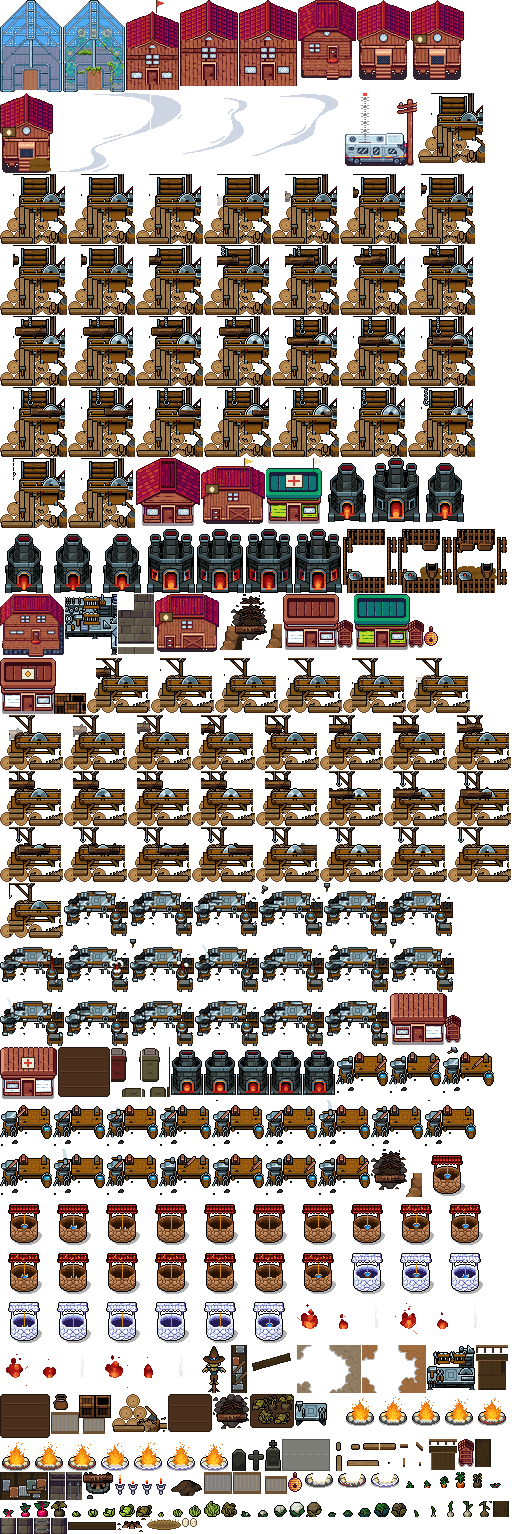
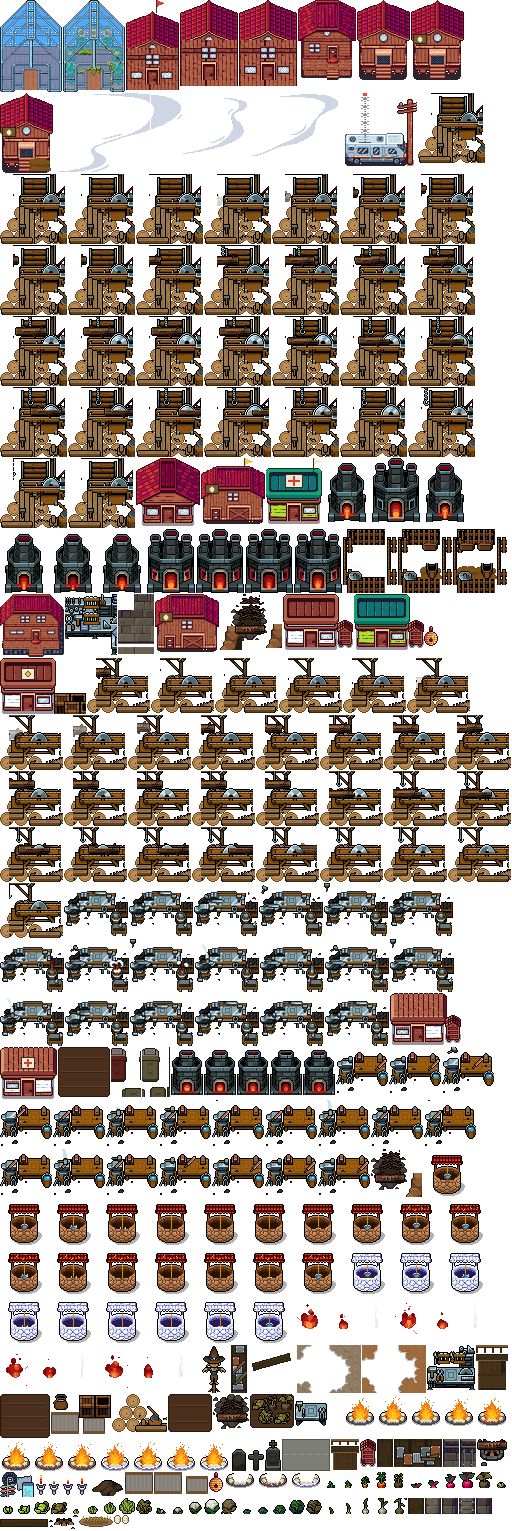
Build 2026-11-07 from 461f334

diff --git a/index.html b/index.html
@@ -47,7 +47,7 @@ input.rename{font:700 20px var(--body);padding:6px 10px;border:3px solid #7a4a24
 .asp{display:inline-block;width:40px;height:40px;background-image:url(animals.png?v=2616df3f);background-repeat:no-repeat;vertical-align:middle;flex:0 0 auto}
 .sp{display:inline-block;width:32px;height:32px;background-image:url(sheet.png?v=ec2cbd7e);background-repeat:no-repeat;vertical-align:middle}
 .psp{display:inline-block;position:relative;vertical-align:middle;image-rendering:pixelated}.psp i{position:absolute;left:0;top:0;width:100%;height:100%;background-image:url(people.png?v=e573a07a);background-repeat:no-repeat}
-.bsp{display:inline-block;background-image:url(bld.png?v=bb1d8808);background-repeat:no-repeat;vertical-align:middle;image-rendering:pixelated}
+.bsp{display:inline-block;background-image:url(bld.png?v=d25d940f);background-repeat:no-repeat;vertical-align:middle;image-rendering:pixelated}
 /* stage */
 .main{display:grid;grid-template-columns:minmax(0,1fr) auto;gap:10px;min-height:0}
 .stage{position:relative;min-width:0;min-height:0;display:flex;align-items:center;justify-content:center;background:#0b100a;border:4px solid #2a1a0e;box-shadow:0 0 0 2px #0a0f0a;overflow:hidden}
@@ -302,7 +302,7 @@ function espr(type,anim,dir,frame,x,y,flip,scale=1,alpha=1){const st=ENEMIES.set
 const eicon=(type,mul=1)=>{const st=ENEMIES.sets[type];const fi=st.anims.idle.side[0];const f=ENEMIES.frames[fi];const s=(type==='bat'?0.55:0.85)*mul;return `<span class="psp" style="width:${R_(f[2]*s)}px;height:${R_(f[3]*s)}px"><i style="background-image:url(enemies.png?v=046c2797);background-position:-${f[0]*s}px -${f[1]*s}px;background-size:${(enImg.naturalWidth||1024)*s}px auto"></i></span>`;};
 const PORTRAITS={"size":80,"pics":{"smith-neutral":[0,0],"smith-happy":[80,0],"smith-calm":[160,0],"smith-angry":[240,0],"smith-sad":[320,0],"smith-puzzled":[400,0],"hippo-neutral":[0,80],"hippo-happy":[80,80],"hippo-calm":[160,80],"hippo-angry":[240,80],"hippo-sad":[320,80],"hippo-puzzled":[400,80],"oldman-neutral":[0,160],"oldman-happy":[80,160],"oldman-calm":[160,160],"oldman-angry":[240,160],"oldman-sad":[320,160],"oldman-puzzled":[400,160],"oldwoman-neutral":[0,240],"oldwoman-happy":[80,240],"oldwoman-calm":[160,240],"oldwoman-angry":[240,240],"oldwoman-sad":[320,240],"oldwoman-puzzled":[400,240],"woman-neutral":[0,320],"woman-happy":[80,320],"woman-calm":[160,320],"woman-angry":[240,320],"woman-sad":[320,320],"woman-puzzled":[400,320]}};   // The Game Smith portrait busts, 80px: smith, hippo, oldman, oldwoman, woman x neutral, happy, calm, angry, sad, puzzled
 const portrait=(who,mood='neutral')=>{const k=PORTRAITS.pics[who+'-'+mood]||PORTRAITS.pics[who+'-neutral'];if(!k)return '';return `<span class="por" style="background-position:-${k[0]}px -${k[1]}px"></span>`;};
-const BLD={"greenhouse_1":{"x":0,"y":0,"w":62,"h":92},"greenhouse_2":{"x":63,"y":0,"w":62,"h":92},"guardpost_3":{"x":126,"y":0,"w":53,"h":90},"guardpost_1":{"x":180,"y":0,"w":58,"h":86},"guardpost_2":{"x":239,"y":0,"w":58,"h":86},"shelter_2":{"x":298,"y":0,"w":58,"h":80},"hatchery_1":{"x":357,"y":0,"w":53,"h":80},"hatchery_2":{"x":411,"y":0,"w":53,"h":80},"hatchery_3":{"x":0,"y":93,"w":53,"h":80},"wind_0":{"x":54,"y":93,"w":96,"h":80},"wind_1":{"x":151,"y":93,"w":96,"h":80},"wind_2":{"x":248,"y":93,"w":96,"h":80},"relay_1":{"x":345,"y":93,"w":72,"h":73},"lumber_3":{"x":418,"y":93,"w":67,"h":70},"lumber_3_a0":{"x":0,"y":174,"w":67,"h":70},"lumber_3_a1":{"x":68,"y":174,"w":67,"h":70},"lumber_3_a2":{"x":136,"y":174,"w":67,"h":70},"lumber_3_a3":{"x":204,"y":174,"w":67,"h":70},"lumber_3_a4":{"x":272,"y":174,"w":67,"h":70},"lumber_3_a5":{"x":340,"y":174,"w":67,"h":70},"lumber_3_a6":{"x":408,"y":174,"w":67,"h":70},"lumber_3_a7":{"x":0,"y":245,"w":67,"h":70},"lumber_3_a8":{"x":68,"y":245,"w":67,"h":70},"lumber_3_a9":{"x":136,"y":245,"w":67,"h":70},"lumber_3_a10":{"x":204,"y":245,"w":67,"h":70},"lumber_3_a11":{"x":272,"y":245,"w":67,"h":70},"lumber_3_a12":{"x":340,"y":245,"w":67,"h":70},"lumber_3_a13":{"x":408,"y":245,"w":67,"h":70},"lumber_3_a14":{"x":0,"y":316,"w":67,"h":70},"lumber_3_a15":{"x":68,"y":316,"w":67,"h":70},"lumber_3_a16":{"x":136,"y":316,"w":67,"h":70},"lumber_3_a17":{"x":204,"y":316,"w":67,"h":70},"lumber_3_a18":{"x":272,"y":316,"w":67,"h":70},"lumber_3_a19":{"x":340,"y":316,"w":67,"h":70},"lumber_3_a20":{"x":408,"y":316,"w":67,"h":70},"lumber_3_a21":{"x":0,"y":387,"w":67,"h":70},"lumber_3_a22":{"x":68,"y":387,"w":67,"h":70},"lumber_3_a23":{"x":136,"y":387,"w":67,"h":70},"lumber_3_a24":{"x":204,"y":387,"w":67,"h":70},"lumber_3_a25":{"x":272,"y":387,"w":67,"h":70},"lumber_3_a26":{"x":340,"y":387,"w":67,"h":70},"lumber_3_a27":{"x":408,"y":387,"w":67,"h":70},"lumber_3_a28":{"x":0,"y":458,"w":67,"h":70},"lumber_3_a29":{"x":68,"y":458,"w":67,"h":70},"shelter_1":{"x":136,"y":458,"w":64,"h":68},"hatchery_5":{"x":201,"y":458,"w":64,"h":66},"infirmary_2":{"x":266,"y":458,"w":56,"h":66},"scrapyard_2":{"x":323,"y":458,"w":48,"h":64},"scrapyard_3":{"x":372,"y":458,"w":48,"h":64},"scrapyard_2_a0":{"x":421,"y":458,"w":48,"h":64},"scrapyard_2_a1":{"x":0,"y":529,"w":48,"h":64},"scrapyard_2_a2":{"x":49,"y":529,"w":48,"h":64},"scrapyard_2_a3":{"x":98,"y":529,"w":48,"h":64},"scrapyard_3_a0":{"x":147,"y":529,"w":48,"h":64},"scrapyard_3_a1":{"x":196,"y":529,"w":48,"h":64},"scrapyard_3_a2":{"x":245,"y":529,"w":48,"h":64},"scrapyard_3_a3":{"x":294,"y":529,"w":48,"h":64},"pen_1":{"x":343,"y":529,"w":54,"h":64},"pen_2":{"x":398,"y":529,"w":54,"h":64},"pen_3":{"x":453,"y":529,"w":54,"h":64},"shelter_3":{"x":0,"y":594,"w":64,"h":63},"lab_3":{"x":65,"y":594,"w":52,"h":61},"bastion_3":{"x":118,"y":594,"w":36,"h":60},"hatchery_4":{"x":155,"y":594,"w":64,"h":58},"signal_5":{"x":220,"y":594,"w":62,"h":56},"bughut_1":{"x":283,"y":594,"w":70,"h":56},"bughut_3":{"x":354,"y":594,"w":84,"h":56},"tradepost_1":{"x":0,"y":658,"w":86,"h":56},"lumber_2":{"x":87,"y":658,"w":63,"h":55},"lumber_2_a0":{"x":151,"y":658,"w":63,"h":55},"lumber_2_a1":{"x":215,"y":658,"w":63,"h":55},"lumber_2_a2":{"x":279,"y":658,"w":63,"h":55},"lumber_2_a3":{"x":343,"y":658,"w":63,"h":55},"lumber_2_a4":{"x":407,"y":658,"w":63,"h":55},"lumber_2_a5":{"x":0,"y":715,"w":63,"h":55},"lumber_2_a6":{"x":64,"y":715,"w":63,"h":55},"lumber_2_a7":{"x":128,"y":715,"w":63,"h":55},"lumber_2_a8":{"x":192,"y":715,"w":63,"h":55},"lumber_2_a9":{"x":256,"y":715,"w":63,"h":55},"lumber_2_a10":{"x":320,"y":715,"w":63,"h":55},"lumber_2_a11":{"x":384,"y":715,"w":63,"h":55},"lumber_2_a12":{"x":448,"y":715,"w":63,"h":55},"lumber_2_a13":{"x":0,"y":771,"w":63,"h":55},"lumber_2_a14":{"x":64,"y":771,"w":63,"h":55},"lumber_2_a15":{"x":128,"y":771,"w":63,"h":55},"lumber_2_a16":{"x":192,"y":771,"w":63,"h":55},"lumber_2_a17":{"x":256,"y":771,"w":63,"h":55},"lumber_2_a18":{"x":320,"y":771,"w":63,"h":55},"lumber_2_a19":{"x":384,"y":771,"w":63,"h":55},"lumber_2_a20":{"x":448,"y":771,"w":63,"h":55},"lumber_2_a21":{"x":0,"y":827,"w":63,"h":55},"lumber_2_a22":{"x":64,"y":827,"w":63,"h":55},"lumber_2_a23":{"x":128,"y":827,"w":63,"h":55},"lumber_2_a24":{"x":192,"y":827,"w":63,"h":55},"lumber_2_a25":{"x":256,"y":827,"w":63,"h":55},"lumber_2_a26":{"x":320,"y":827,"w":63,"h":55},"lumber_2_a27":{"x":384,"y":827,"w":63,"h":55},"lumber_2_a28":{"x":448,"y":827,"w":63,"h":55},"lumber_2_a29":{"x":0,"y":883,"w":63,"h":55},"workshop_2":{"x":64,"y":883,"w":64,"h":53},"workshop_2_a0":{"x":129,"y":883,"w":64,"h":53},"workshop_2_a1":{"x":194,"y":883,"w":64,"h":53},"workshop_2_a2":{"x":259,"y":883,"w":64,"h":53},"workshop_2_a3":{"x":324,"y":883,"w":64,"h":53},"workshop_2_a4":{"x":389,"y":883,"w":64,"h":53},"workshop_2_a5":{"x":0,"y":939,"w":64,"h":53},"workshop_2_a6":{"x":65,"y":939,"w":64,"h":53},"workshop_2_a7":{"x":130,"y":939,"w":64,"h":53},"workshop_2_a8":{"x":195,"y":939,"w":64,"h":53},"workshop_2_a9":{"x":260,"y":939,"w":64,"h":53},"workshop_2_a10":{"x":325,"y":939,"w":64,"h":53},"workshop_2_a11":{"x":390,"y":939,"w":64,"h":53},"workshop_2_a12":{"x":0,"y":993,"w":64,"h":53},"workshop_2_a13":{"x":65,"y":993,"w":64,"h":53},"workshop_2_a14":{"x":130,"y":993,"w":64,"h":53},"workshop_2_a15":{"x":195,"y":993,"w":64,"h":53},"workshop_2_a16":{"x":260,"y":993,"w":64,"h":53},"workshop_2_a17":{"x":325,"y":993,"w":64,"h":53},"bughut_2":{"x":390,"y":993,"w":71,"h":52},"infirmary_1":{"x":0,"y":1047,"w":57,"h":52},"garden_3":{"x":58,"y":1047,"w":52,"h":50},"bedroll_a":{"x":111,"y":1047,"w":30,"h":50},"bedroll_b":{"x":142,"y":1047,"w":28,"h":50},"scrapyard_1":{"x":171,"y":1047,"w":32,"h":48},"scrapyard_1_a0":{"x":204,"y":1047,"w":32,"h":48},"scrapyard_1_a1":{"x":237,"y":1047,"w":32,"h":48},"scrapyard_1_a2":{"x":270,"y":1047,"w":32,"h":48},"scrapyard_1_a3":{"x":303,"y":1047,"w":32,"h":48},"workshop_1":{"x":336,"y":1047,"w":52,"h":48},"workshop_1_a0":{"x":389,"y":1047,"w":52,"h":48},"workshop_1_a1":{"x":442,"y":1047,"w":52,"h":48},"workshop_1_a2":{"x":0,"y":1100,"w":52,"h":48},"workshop_1_a3":{"x":53,"y":1100,"w":52,"h":48},"workshop_1_a4":{"x":106,"y":1100,"w":52,"h":48},"workshop_1_a5":{"x":159,"y":1100,"w":52,"h":48},"workshop_1_a6":{"x":212,"y":1100,"w":52,"h":48},"workshop_1_a7":{"x":265,"y":1100,"w":52,"h":48},"workshop_1_a8":{"x":318,"y":1100,"w":52,"h":48},"workshop_1_a9":{"x":371,"y":1100,"w":52,"h":48},"workshop_1_a10":{"x":424,"y":1100,"w":52,"h":48},"workshop_1_a11":{"x":0,"y":1149,"w":52,"h":48},"workshop_1_a12":{"x":53,"y":1149,"w":52,"h":48},"workshop_1_a13":{"x":106,"y":1149,"w":52,"h":48},"workshop_1_a14":{"x":159,"y":1149,"w":52,"h":48},"workshop_1_a15":{"x":212,"y":1149,"w":52,"h":48},"workshop_1_a16":{"x":265,"y":1149,"w":52,"h":48},"workshop_1_a17":{"x":318,"y":1149,"w":52,"h":48},"signal_4":{"x":371,"y":1149,"w":51,"h":48},"well_0_0":{"x":423,"y":1149,"w":48,"h":48},"well_0_1":{"x":0,"y":1198,"w":48,"h":48},"well_0_2":{"x":49,"y":1198,"w":48,"h":48},"well_0_3":{"x":98,"y":1198,"w":48,"h":48},"well_0_4":{"x":147,"y":1198,"w":48,"h":48},"well_0_5":{"x":196,"y":1198,"w":48,"h":48},"well_0_6":{"x":245,"y":1198,"w":48,"h":48},"well_0_7":{"x":294,"y":1198,"w":48,"h":48},"well_0_8":{"x":343,"y":1198,"w":48,"h":48},"well_2_0":{"x":392,"y":1198,"w":48,"h":48},"well_2_1":{"x":441,"y":1198,"w":48,"h":48},"well_2_2":{"x":0,"y":1247,"w":48,"h":48},"well_2_3":{"x":49,"y":1247,"w":48,"h":48},"well_2_4":{"x":98,"y":1247,"w":48,"h":48},"well_2_5":{"x":147,"y":1247,"w":48,"h":48},"well_2_6":{"x":196,"y":1247,"w":48,"h":48},"well_2_7":{"x":245,"y":1247,"w":48,"h":48},"well_2_8":{"x":294,"y":1247,"w":48,"h":48},"well_3_0":{"x":343,"y":1247,"w":48,"h":48},"well_3_1":{"x":392,"y":1247,"w":48,"h":48},"well_3_2":{"x":441,"y":1247,"w":48,"h":48},"well_3_3":{"x":0,"y":1296,"w":48,"h":48},"well_3_4":{"x":49,"y":1296,"w":48,"h":48},"well_3_5":{"x":98,"y":1296,"w":48,"h":48},"well_3_6":{"x":147,"y":1296,"w":48,"h":48},"well_3_7":{"x":196,"y":1296,"w":48,"h":48},"well_3_8":{"x":245,"y":1296,"w":48,"h":48},"fire_0":{"x":294,"y":1296,"w":32,"h":48},"fire2_0":{"x":327,"y":1296,"w":32,"h":48},"smoke_0":{"x":360,"y":1296,"w":32,"h":48},"fire_1":{"x":393,"y":1296,"w":32,"h":48},"fire2_1":{"x":426,"y":1296,"w":32,"h":48},"smoke_1":{"x":459,"y":1296,"w":32,"h":48},"fire_2":{"x":0,"y":1345,"w":32,"h":48},"fire2_2":{"x":33,"y":1345,"w":32,"h":48},"smoke_2":{"x":66,"y":1345,"w":32,"h":48},"fire_3":{"x":99,"y":1345,"w":32,"h":48},"fire2_3":{"x":132,"y":1345,"w":32,"h":48},"smoke_3":{"x":165,"y":1345,"w":32,"h":48},"scarecrow":{"x":198,"y":1345,"w":32,"h":48},"wallv_2":{"x":231,"y":1345,"w":16,"h":48},"plank_b":{"x":248,"y":1345,"w":48,"h":48},"pad_stone":{"x":297,"y":1345,"w":64,"h":48},"pad_dirt":{"x":362,"y":1345,"w":64,"h":48},"lab_2":{"x":427,"y":1345,"w":48,"h":45},"bastion_2":{"x":476,"y":1345,"w":32,"h":45},"garden_2":{"x":0,"y":1394,"w":50,"h":44},"traps_3":{"x":51,"y":1394,"w":60,"h":40},"lumber_1":{"x":112,"y":1394,"w":55,"h":38},"garden_1":{"x":168,"y":1394,"w":44,"h":38},"signal_3":{"x":213,"y":1394,"w":36,"h":35},"garden_icon":{"x":250,"y":1394,"w":44,"h":34},"lab_1":{"x":295,"y":1394,"w":48,"h":32},"gfire_0_0":{"x":344,"y":1394,"w":32,"h":32},"gfire_0_1":{"x":377,"y":1394,"w":32,"h":32},"gfire_0_2":{"x":410,"y":1394,"w":32,"h":32},"gfire_0_3":{"x":443,"y":1394,"w":32,"h":32},"gfire_2_0":{"x":476,"y":1394,"w":32,"h":32},"gfire_2_1":{"x":0,"y":1439,"w":32,"h":32},"gfire_2_2":{"x":33,"y":1439,"w":32,"h":32},"gfire_2_3":{"x":66,"y":1439,"w":32,"h":32},"gfire_3_0":{"x":99,"y":1439,"w":32,"h":32},"gfire_3_1":{"x":132,"y":1439,"w":32,"h":32},"gfire_3_2":{"x":165,"y":1439,"w":32,"h":32},"gfire_3_3":{"x":198,"y":1439,"w":32,"h":32},"grave_a":{"x":231,"y":1439,"w":16,"h":32},"grave_b":{"x":248,"y":1439,"w":16,"h":32},"grave_c":{"x":265,"y":1439,"w":16,"h":32},"road_1":{"x":282,"y":1439,"w":48,"h":32},"logs_pile":{"x":331,"y":1439,"w":48,"h":32},"ore_pile":{"x":380,"y":1439,"w":48,"h":32},"bastion_1":{"x":429,"y":1439,"w":28,"h":31},"beehive":{"x":458,"y":1439,"w":16,"h":28},"wallh_1":{"x":475,"y":1439,"w":16,"h":28},"wallh_2":{"x":0,"y":1472,"w":48,"h":28},"wallh_3":{"x":49,"y":1472,"w":16,"h":28},"wallh_4":{"x":66,"y":1472,"w":16,"h":28},"signal_2":{"x":83,"y":1472,"w":30,"h":27},"torch_0":{"x":114,"y":1472,"w":12,"h":24},"torch_1":{"x":127,"y":1472,"w":12,"h":24},"torch_2":{"x":140,"y":1472,"w":14,"h":24},"torch_3":{"x":155,"y":1472,"w":15,"h":24},"mound":{"x":171,"y":1472,"w":32,"h":24},"traps_1":{"x":204,"y":1472,"w":28,"h":22},"traps_2":{"x":233,"y":1472,"w":54,"h":22},"skep":{"x":288,"y":1472,"w":14,"h":20},"gring_0":{"x":303,"y":1472,"w":32,"h":16},"gring_2":{"x":336,"y":1472,"w":32,"h":16},"gring_3":{"x":369,"y":1472,"w":32,"h":16},"crop_carrot_0":{"x":402,"y":1472,"w":16,"h":16},"crop_carrot_1":{"x":419,"y":1472,"w":16,"h":16},"crop_carrot_2":{"x":436,"y":1472,"w":16,"h":16},"crop_carrot_3":{"x":453,"y":1472,"w":16,"h":16},"crop_carrot_4":{"x":470,"y":1472,"w":16,"h":16},"crop_beet_0":{"x":487,"y":1472,"w":16,"h":16},"crop_beet_1":{"x":0,"y":1501,"w":16,"h":16},"crop_beet_2":{"x":17,"y":1501,"w":16,"h":16},"crop_beet_3":{"x":34,"y":1501,"w":16,"h":16},"crop_beet_4":{"x":51,"y":1501,"w":16,"h":16},"crop_cabbage_0":{"x":68,"y":1501,"w":16,"h":16},"crop_cabbage_1":{"x":85,"y":1501,"w":16,"h":16},"crop_cabbage_2":{"x":102,"y":1501,"w":16,"h":16},"crop_cabbage_3":{"x":119,"y":1501,"w":16,"h":16},"crop_cabbage_4":{"x":136,"y":1501,"w":16,"h":16},"crop_lettuce_0":{"x":153,"y":1501,"w":16,"h":16},"crop_lettuce_1":{"x":170,"y":1501,"w":16,"h":16},"crop_lettuce_2":{"x":187,"y":1501,"w":16,"h":16},"crop_lettuce_3":{"x":204,"y":1501,"w":16,"h":16},"crop_lettuce_4":{"x":221,"y":1501,"w":16,"h":16},"crop_cauliflower_0":{"x":238,"y":1501,"w":16,"h":16},"crop_cauliflower_1":{"x":255,"y":1501,"w":16,"h":16},"crop_cauliflower_2":{"x":272,"y":1501,"w":16,"h":16},"crop_cauliflower_3":{"x":289,"y":1501,"w":16,"h":16},"crop_cauliflower_4":{"x":306,"y":1501,"w":16,"h":16},"crop_broccoli_0":{"x":323,"y":1501,"w":16,"h":16},"crop_broccoli_1":{"x":340,"y":1501,"w":16,"h":16},"crop_broccoli_2":{"x":357,"y":1501,"w":16,"h":16},"crop_broccoli_3":{"x":374,"y":1501,"w":16,"h":16},"crop_broccoli_4":{"x":391,"y":1501,"w":16,"h":16},"crop_garlic_0":{"x":408,"y":1501,"w":16,"h":16},"crop_garlic_1":{"x":425,"y":1501,"w":16,"h":16},"crop_garlic_2":{"x":442,"y":1501,"w":16,"h":16},"crop_garlic_3":{"x":459,"y":1501,"w":16,"h":16},"crop_garlic_4":{"x":476,"y":1501,"w":16,"h":16},"wallv_1":{"x":493,"y":1501,"w":16,"h":16},"wallv_3":{"x":0,"y":1518,"w":16,"h":16},"wallcap_3":{"x":17,"y":1518,"w":16,"h":16},"wallv_4":{"x":34,"y":1518,"w":16,"h":16},"wallcap_4":{"x":51,"y":1518,"w":16,"h":16},"plank_a":{"x":68,"y":1518,"w":48,"h":16},"signal_1":{"x":117,"y":1518,"w":29,"h":14},"nest":{"x":147,"y":1518,"w":34,"h":12},"egg_a":{"x":182,"y":1518,"w":7,"h":9},"egg_b":{"x":190,"y":1518,"w":7,"h":9},"_anim":{"lumber_2":30,"lumber_3":30,"scrapyard_1":4,"scrapyard_2":4,"scrapyard_3":4,"workshop_1":18,"workshop_2":18}};const bldImg=new Image();let bldReady=false;bldImg.src='bld.png?v=bb1d8808';bldImg.onload=()=>{bldReady=true;};
+const BLD={"greenhouse_1":{"x":0,"y":0,"w":62,"h":92},"greenhouse_2":{"x":63,"y":0,"w":62,"h":92},"guardpost_3":{"x":126,"y":0,"w":53,"h":90},"guardpost_1":{"x":180,"y":0,"w":58,"h":86},"guardpost_2":{"x":239,"y":0,"w":58,"h":86},"shelter_2":{"x":298,"y":0,"w":58,"h":80},"hatchery_1":{"x":357,"y":0,"w":53,"h":80},"hatchery_2":{"x":411,"y":0,"w":53,"h":80},"hatchery_3":{"x":0,"y":93,"w":53,"h":80},"wind_0":{"x":54,"y":93,"w":96,"h":80},"wind_1":{"x":151,"y":93,"w":96,"h":80},"wind_2":{"x":248,"y":93,"w":96,"h":80},"relay_1":{"x":345,"y":93,"w":72,"h":73},"lumber_3":{"x":418,"y":93,"w":67,"h":70},"lumber_3_a0":{"x":0,"y":174,"w":67,"h":70},"lumber_3_a1":{"x":68,"y":174,"w":67,"h":70},"lumber_3_a2":{"x":136,"y":174,"w":67,"h":70},"lumber_3_a3":{"x":204,"y":174,"w":67,"h":70},"lumber_3_a4":{"x":272,"y":174,"w":67,"h":70},"lumber_3_a5":{"x":340,"y":174,"w":67,"h":70},"lumber_3_a6":{"x":408,"y":174,"w":67,"h":70},"lumber_3_a7":{"x":0,"y":245,"w":67,"h":70},"lumber_3_a8":{"x":68,"y":245,"w":67,"h":70},"lumber_3_a9":{"x":136,"y":245,"w":67,"h":70},"lumber_3_a10":{"x":204,"y":245,"w":67,"h":70},"lumber_3_a11":{"x":272,"y":245,"w":67,"h":70},"lumber_3_a12":{"x":340,"y":245,"w":67,"h":70},"lumber_3_a13":{"x":408,"y":245,"w":67,"h":70},"lumber_3_a14":{"x":0,"y":316,"w":67,"h":70},"lumber_3_a15":{"x":68,"y":316,"w":67,"h":70},"lumber_3_a16":{"x":136,"y":316,"w":67,"h":70},"lumber_3_a17":{"x":204,"y":316,"w":67,"h":70},"lumber_3_a18":{"x":272,"y":316,"w":67,"h":70},"lumber_3_a19":{"x":340,"y":316,"w":67,"h":70},"lumber_3_a20":{"x":408,"y":316,"w":67,"h":70},"lumber_3_a21":{"x":0,"y":387,"w":67,"h":70},"lumber_3_a22":{"x":68,"y":387,"w":67,"h":70},"lumber_3_a23":{"x":136,"y":387,"w":67,"h":70},"lumber_3_a24":{"x":204,"y":387,"w":67,"h":70},"lumber_3_a25":{"x":272,"y":387,"w":67,"h":70},"lumber_3_a26":{"x":340,"y":387,"w":67,"h":70},"lumber_3_a27":{"x":408,"y":387,"w":67,"h":70},"lumber_3_a28":{"x":0,"y":458,"w":67,"h":70},"lumber_3_a29":{"x":68,"y":458,"w":67,"h":70},"shelter_1":{"x":136,"y":458,"w":64,"h":68},"hatchery_5":{"x":201,"y":458,"w":64,"h":66},"infirmary_2":{"x":266,"y":458,"w":56,"h":66},"scrapyard_2":{"x":323,"y":458,"w":48,"h":64},"scrapyard_3":{"x":372,"y":458,"w":48,"h":64},"scrapyard_2_a0":{"x":421,"y":458,"w":48,"h":64},"scrapyard_2_a1":{"x":0,"y":529,"w":48,"h":64},"scrapyard_2_a2":{"x":49,"y":529,"w":48,"h":64},"scrapyard_2_a3":{"x":98,"y":529,"w":48,"h":64},"scrapyard_3_a0":{"x":147,"y":529,"w":48,"h":64},"scrapyard_3_a1":{"x":196,"y":529,"w":48,"h":64},"scrapyard_3_a2":{"x":245,"y":529,"w":48,"h":64},"scrapyard_3_a3":{"x":294,"y":529,"w":48,"h":64},"pen_1":{"x":343,"y":529,"w":54,"h":64},"pen_2":{"x":398,"y":529,"w":54,"h":64},"pen_3":{"x":453,"y":529,"w":54,"h":64},"shelter_3":{"x":0,"y":594,"w":64,"h":63},"lab_3":{"x":65,"y":594,"w":52,"h":61},"bastion_3":{"x":118,"y":594,"w":36,"h":60},"hatchery_4":{"x":155,"y":594,"w":64,"h":58},"signal_5":{"x":220,"y":594,"w":62,"h":56},"bughut_1":{"x":283,"y":594,"w":70,"h":56},"bughut_3":{"x":354,"y":594,"w":84,"h":56},"tradepost_1":{"x":0,"y":658,"w":86,"h":56},"lumber_2":{"x":87,"y":658,"w":63,"h":55},"lumber_2_a0":{"x":151,"y":658,"w":63,"h":55},"lumber_2_a1":{"x":215,"y":658,"w":63,"h":55},"lumber_2_a2":{"x":279,"y":658,"w":63,"h":55},"lumber_2_a3":{"x":343,"y":658,"w":63,"h":55},"lumber_2_a4":{"x":407,"y":658,"w":63,"h":55},"lumber_2_a5":{"x":0,"y":715,"w":63,"h":55},"lumber_2_a6":{"x":64,"y":715,"w":63,"h":55},"lumber_2_a7":{"x":128,"y":715,"w":63,"h":55},"lumber_2_a8":{"x":192,"y":715,"w":63,"h":55},"lumber_2_a9":{"x":256,"y":715,"w":63,"h":55},"lumber_2_a10":{"x":320,"y":715,"w":63,"h":55},"lumber_2_a11":{"x":384,"y":715,"w":63,"h":55},"lumber_2_a12":{"x":448,"y":715,"w":63,"h":55},"lumber_2_a13":{"x":0,"y":771,"w":63,"h":55},"lumber_2_a14":{"x":64,"y":771,"w":63,"h":55},"lumber_2_a15":{"x":128,"y":771,"w":63,"h":55},"lumber_2_a16":{"x":192,"y":771,"w":63,"h":55},"lumber_2_a17":{"x":256,"y":771,"w":63,"h":55},"lumber_2_a18":{"x":320,"y":771,"w":63,"h":55},"lumber_2_a19":{"x":384,"y":771,"w":63,"h":55},"lumber_2_a20":{"x":448,"y":771,"w":63,"h":55},"lumber_2_a21":{"x":0,"y":827,"w":63,"h":55},"lumber_2_a22":{"x":64,"y":827,"w":63,"h":55},"lumber_2_a23":{"x":128,"y":827,"w":63,"h":55},"lumber_2_a24":{"x":192,"y":827,"w":63,"h":55},"lumber_2_a25":{"x":256,"y":827,"w":63,"h":55},"lumber_2_a26":{"x":320,"y":827,"w":63,"h":55},"lumber_2_a27":{"x":384,"y":827,"w":63,"h":55},"lumber_2_a28":{"x":448,"y":827,"w":63,"h":55},"lumber_2_a29":{"x":0,"y":883,"w":63,"h":55},"workshop_2":{"x":64,"y":883,"w":64,"h":53},"workshop_2_a0":{"x":129,"y":883,"w":64,"h":53},"workshop_2_a1":{"x":194,"y":883,"w":64,"h":53},"workshop_2_a2":{"x":259,"y":883,"w":64,"h":53},"workshop_2_a3":{"x":324,"y":883,"w":64,"h":53},"workshop_2_a4":{"x":389,"y":883,"w":64,"h":53},"workshop_2_a5":{"x":0,"y":939,"w":64,"h":53},"workshop_2_a6":{"x":65,"y":939,"w":64,"h":53},"workshop_2_a7":{"x":130,"y":939,"w":64,"h":53},"workshop_2_a8":{"x":195,"y":939,"w":64,"h":53},"workshop_2_a9":{"x":260,"y":939,"w":64,"h":53},"workshop_2_a10":{"x":325,"y":939,"w":64,"h":53},"workshop_2_a11":{"x":390,"y":939,"w":64,"h":53},"workshop_2_a12":{"x":0,"y":993,"w":64,"h":53},"workshop_2_a13":{"x":65,"y":993,"w":64,"h":53},"workshop_2_a14":{"x":130,"y":993,"w":64,"h":53},"workshop_2_a15":{"x":195,"y":993,"w":64,"h":53},"workshop_2_a16":{"x":260,"y":993,"w":64,"h":53},"workshop_2_a17":{"x":325,"y":993,"w":64,"h":53},"bughut_2":{"x":390,"y":993,"w":71,"h":52},"infirmary_1":{"x":0,"y":1047,"w":57,"h":52},"garden_3":{"x":58,"y":1047,"w":52,"h":50},"bedroll_a":{"x":111,"y":1047,"w":30,"h":50},"bedroll_b":{"x":142,"y":1047,"w":28,"h":50},"scrapyard_1":{"x":171,"y":1047,"w":32,"h":48},"scrapyard_1_a0":{"x":204,"y":1047,"w":32,"h":48},"scrapyard_1_a1":{"x":237,"y":1047,"w":32,"h":48},"scrapyard_1_a2":{"x":270,"y":1047,"w":32,"h":48},"scrapyard_1_a3":{"x":303,"y":1047,"w":32,"h":48},"workshop_1":{"x":336,"y":1047,"w":52,"h":48},"workshop_1_a0":{"x":389,"y":1047,"w":52,"h":48},"workshop_1_a1":{"x":442,"y":1047,"w":52,"h":48},"workshop_1_a2":{"x":0,"y":1100,"w":52,"h":48},"workshop_1_a3":{"x":53,"y":1100,"w":52,"h":48},"workshop_1_a4":{"x":106,"y":1100,"w":52,"h":48},"workshop_1_a5":{"x":159,"y":1100,"w":52,"h":48},"workshop_1_a6":{"x":212,"y":1100,"w":52,"h":48},"workshop_1_a7":{"x":265,"y":1100,"w":52,"h":48},"workshop_1_a8":{"x":318,"y":1100,"w":52,"h":48},"workshop_1_a9":{"x":371,"y":1100,"w":52,"h":48},"workshop_1_a10":{"x":424,"y":1100,"w":52,"h":48},"workshop_1_a11":{"x":0,"y":1149,"w":52,"h":48},"workshop_1_a12":{"x":53,"y":1149,"w":52,"h":48},"workshop_1_a13":{"x":106,"y":1149,"w":52,"h":48},"workshop_1_a14":{"x":159,"y":1149,"w":52,"h":48},"workshop_1_a15":{"x":212,"y":1149,"w":52,"h":48},"workshop_1_a16":{"x":265,"y":1149,"w":52,"h":48},"workshop_1_a17":{"x":318,"y":1149,"w":52,"h":48},"signal_4":{"x":371,"y":1149,"w":51,"h":48},"well_0_0":{"x":423,"y":1149,"w":48,"h":48},"well_0_1":{"x":0,"y":1198,"w":48,"h":48},"well_0_2":{"x":49,"y":1198,"w":48,"h":48},"well_0_3":{"x":98,"y":1198,"w":48,"h":48},"well_0_4":{"x":147,"y":1198,"w":48,"h":48},"well_0_5":{"x":196,"y":1198,"w":48,"h":48},"well_0_6":{"x":245,"y":1198,"w":48,"h":48},"well_0_7":{"x":294,"y":1198,"w":48,"h":48},"well_0_8":{"x":343,"y":1198,"w":48,"h":48},"well_2_0":{"x":392,"y":1198,"w":48,"h":48},"well_2_1":{"x":441,"y":1198,"w":48,"h":48},"well_2_2":{"x":0,"y":1247,"w":48,"h":48},"well_2_3":{"x":49,"y":1247,"w":48,"h":48},"well_2_4":{"x":98,"y":1247,"w":48,"h":48},"well_2_5":{"x":147,"y":1247,"w":48,"h":48},"well_2_6":{"x":196,"y":1247,"w":48,"h":48},"well_2_7":{"x":245,"y":1247,"w":48,"h":48},"well_2_8":{"x":294,"y":1247,"w":48,"h":48},"well_3_0":{"x":343,"y":1247,"w":48,"h":48},"well_3_1":{"x":392,"y":1247,"w":48,"h":48},"well_3_2":{"x":441,"y":1247,"w":48,"h":48},"well_3_3":{"x":0,"y":1296,"w":48,"h":48},"well_3_4":{"x":49,"y":1296,"w":48,"h":48},"well_3_5":{"x":98,"y":1296,"w":48,"h":48},"well_3_6":{"x":147,"y":1296,"w":48,"h":48},"well_3_7":{"x":196,"y":1296,"w":48,"h":48},"well_3_8":{"x":245,"y":1296,"w":48,"h":48},"fire_0":{"x":294,"y":1296,"w":32,"h":48},"fire2_0":{"x":327,"y":1296,"w":32,"h":48},"smoke_0":{"x":360,"y":1296,"w":32,"h":48},"fire_1":{"x":393,"y":1296,"w":32,"h":48},"fire2_1":{"x":426,"y":1296,"w":32,"h":48},"smoke_1":{"x":459,"y":1296,"w":32,"h":48},"fire_2":{"x":0,"y":1345,"w":32,"h":48},"fire2_2":{"x":33,"y":1345,"w":32,"h":48},"smoke_2":{"x":66,"y":1345,"w":32,"h":48},"fire_3":{"x":99,"y":1345,"w":32,"h":48},"fire2_3":{"x":132,"y":1345,"w":32,"h":48},"smoke_3":{"x":165,"y":1345,"w":32,"h":48},"scarecrow":{"x":198,"y":1345,"w":32,"h":48},"wallv_2":{"x":231,"y":1345,"w":16,"h":48},"plank_b":{"x":248,"y":1345,"w":48,"h":48},"pad_stone":{"x":297,"y":1345,"w":64,"h":48},"pad_dirt":{"x":362,"y":1345,"w":64,"h":48},"lab_2":{"x":427,"y":1345,"w":48,"h":45},"bastion_2":{"x":476,"y":1345,"w":32,"h":45},"garden_2":{"x":0,"y":1394,"w":50,"h":44},"traps_3":{"x":51,"y":1394,"w":60,"h":40},"lumber_1":{"x":112,"y":1394,"w":55,"h":38},"garden_1":{"x":168,"y":1394,"w":44,"h":38},"signal_3":{"x":213,"y":1394,"w":36,"h":35},"garden_icon":{"x":250,"y":1394,"w":44,"h":34},"lab_1":{"x":295,"y":1394,"w":48,"h":32},"gfire_0_0":{"x":344,"y":1394,"w":32,"h":32},"gfire_0_1":{"x":377,"y":1394,"w":32,"h":32},"gfire_0_2":{"x":410,"y":1394,"w":32,"h":32},"gfire_0_3":{"x":443,"y":1394,"w":32,"h":32},"gfire_2_0":{"x":476,"y":1394,"w":32,"h":32},"gfire_2_1":{"x":0,"y":1439,"w":32,"h":32},"gfire_2_2":{"x":33,"y":1439,"w":32,"h":32},"gfire_2_3":{"x":66,"y":1439,"w":32,"h":32},"gfire_3_0":{"x":99,"y":1439,"w":32,"h":32},"gfire_3_1":{"x":132,"y":1439,"w":32,"h":32},"gfire_3_2":{"x":165,"y":1439,"w":32,"h":32},"gfire_3_3":{"x":198,"y":1439,"w":32,"h":32},"grave_a":{"x":231,"y":1439,"w":16,"h":32},"grave_b":{"x":248,"y":1439,"w":16,"h":32},"grave_c":{"x":265,"y":1439,"w":16,"h":32},"road_1":{"x":282,"y":1439,"w":48,"h":32},"bastion_1":{"x":331,"y":1439,"w":28,"h":31},"beehive":{"x":360,"y":1439,"w":16,"h":28},"wallh_1":{"x":377,"y":1439,"w":16,"h":28},"wallh_2":{"x":394,"y":1439,"w":48,"h":28},"wallh_3":{"x":443,"y":1439,"w":16,"h":28},"wallh_4":{"x":460,"y":1439,"w":16,"h":28},"signal_2":{"x":477,"y":1439,"w":30,"h":27},"scrap_heap":{"x":0,"y":1472,"w":34,"h":25},"torch_0":{"x":35,"y":1472,"w":12,"h":24},"torch_1":{"x":48,"y":1472,"w":12,"h":24},"torch_2":{"x":61,"y":1472,"w":14,"h":24},"torch_3":{"x":76,"y":1472,"w":15,"h":24},"mound":{"x":92,"y":1472,"w":32,"h":24},"traps_1":{"x":125,"y":1472,"w":28,"h":22},"traps_2":{"x":154,"y":1472,"w":54,"h":22},"skep":{"x":209,"y":1472,"w":14,"h":20},"gring_0":{"x":224,"y":1472,"w":32,"h":16},"gring_2":{"x":257,"y":1472,"w":32,"h":16},"gring_3":{"x":290,"y":1472,"w":32,"h":16},"crop_carrot_0":{"x":323,"y":1472,"w":16,"h":16},"crop_carrot_1":{"x":340,"y":1472,"w":16,"h":16},"crop_carrot_2":{"x":357,"y":1472,"w":16,"h":16},"crop_carrot_3":{"x":374,"y":1472,"w":16,"h":16},"crop_carrot_4":{"x":391,"y":1472,"w":16,"h":16},"crop_beet_0":{"x":408,"y":1472,"w":16,"h":16},"crop_beet_1":{"x":425,"y":1472,"w":16,"h":16},"crop_beet_2":{"x":442,"y":1472,"w":16,"h":16},"crop_beet_3":{"x":459,"y":1472,"w":16,"h":16},"crop_beet_4":{"x":476,"y":1472,"w":16,"h":16},"crop_cabbage_0":{"x":493,"y":1472,"w":16,"h":16},"crop_cabbage_1":{"x":0,"y":1498,"w":16,"h":16},"crop_cabbage_2":{"x":17,"y":1498,"w":16,"h":16},"crop_cabbage_3":{"x":34,"y":1498,"w":16,"h":16},"crop_cabbage_4":{"x":51,"y":1498,"w":16,"h":16},"crop_lettuce_0":{"x":68,"y":1498,"w":16,"h":16},"crop_lettuce_1":{"x":85,"y":1498,"w":16,"h":16},"crop_lettuce_2":{"x":102,"y":1498,"w":16,"h":16},"crop_lettuce_3":{"x":119,"y":1498,"w":16,"h":16},"crop_lettuce_4":{"x":136,"y":1498,"w":16,"h":16},"crop_cauliflower_0":{"x":153,"y":1498,"w":16,"h":16},"crop_cauliflower_1":{"x":170,"y":1498,"w":16,"h":16},"crop_cauliflower_2":{"x":187,"y":1498,"w":16,"h":16},"crop_cauliflower_3":{"x":204,"y":1498,"w":16,"h":16},"crop_cauliflower_4":{"x":221,"y":1498,"w":16,"h":16},"crop_broccoli_0":{"x":238,"y":1498,"w":16,"h":16},"crop_broccoli_1":{"x":255,"y":1498,"w":16,"h":16},"crop_broccoli_2":{"x":272,"y":1498,"w":16,"h":16},"crop_broccoli_3":{"x":289,"y":1498,"w":16,"h":16},"crop_broccoli_4":{"x":306,"y":1498,"w":16,"h":16},"crop_garlic_0":{"x":323,"y":1498,"w":16,"h":16},"crop_garlic_1":{"x":340,"y":1498,"w":16,"h":16},"crop_garlic_2":{"x":357,"y":1498,"w":16,"h":16},"crop_garlic_3":{"x":374,"y":1498,"w":16,"h":16},"crop_garlic_4":{"x":391,"y":1498,"w":16,"h":16},"wallv_1":{"x":408,"y":1498,"w":16,"h":16},"wallv_3":{"x":425,"y":1498,"w":16,"h":16},"wallcap_3":{"x":442,"y":1498,"w":16,"h":16},"wallv_4":{"x":459,"y":1498,"w":16,"h":16},"wallcap_4":{"x":476,"y":1498,"w":16,"h":16},"plank_a":{"x":0,"y":1515,"w":48,"h":16},"signal_1":{"x":49,"y":1515,"w":29,"h":14},"nest":{"x":79,"y":1515,"w":34,"h":12},"egg_a":{"x":114,"y":1515,"w":7,"h":9},"egg_b":{"x":122,"y":1515,"w":7,"h":9},"_anim":{"lumber_2":30,"lumber_3":30,"scrapyard_1":4,"scrapyard_2":4,"scrapyard_3":4,"workshop_1":18,"workshop_2":18}};const bldImg=new Image();let bldReady=false;bldImg.src='bld.png?v=d25d940f';bldImg.onload=()=>{bldReady=true;};
 function bspr(name,x,y,scale=1.25,alpha=1){const a=BLD[name];if(!a||!bldReady)return false;ctx.save();ctx.globalAlpha=alpha;ctx.drawImage(bldImg,a.x,a.y,a.w,a.h,Math.round(x-a.w*scale/2),Math.round(y-a.h*scale),Math.round(a.w*scale),Math.round(a.h*scale));ctx.restore();return true;}
 const bname=(type,lvl)=>BLD[`${type}_${lvl}`]?`${type}_${lvl}`:BLD[`${type}_1`]?`${type}_1`:null;
 const VEGS=['carrot','beet','cabbage','lettuce','cauliflower','broccoli','garlic'];
@@ -330,8 +330,8 @@ function drawBuilding(t,x,y,alpha){const bx=x*T+T/2,by=y*T+T-5;const n=bname(t.t
   // a worked station runs: the saw turns, the hammer falls, the furnace breathes (frames from the pack's animation sheets)
   const nf=worked&&S.speed>0&&BLD._anim&&BLD._anim[n];
   bspr(nf?`${n}_a${Math.floor(tickA/3+seed*nf)%nf}`:n,bx,by,BSC,alpha);
-  if(t.done&&t.type==='lumber')bspr('logs_pile',bx+T/2-12,by+2,1.0,alpha);
-  if(t.done&&t.type==='scrapyard')bspr('ore_pile',bx-T/2+12,by+2,1.0,alpha);
+  // the scrapyard's junk heap, front-left of the furnace; the lumber camp's woodpile is in its own sprite
+  if(t.done&&t.type==='scrapyard')bspr('scrap_heap',bx-T/2+14,by+6,1.0,alpha);
   if(t.done&&t.type==='pen'&&t.lvl>=2){const si=seasonIdx(),sk=si===2?2:si===3?3:0;bspr(`well_${sk}_${Math.floor(tickA/9+seed*9)%9}`,bx+T/2-6,by-T+22,0.85,alpha);}   // the stock well in the pen's back corner
   if(worked&&run){
     if(t.type==='lumber'&&Math.random()<dtReal*14)particles.push({x:bx+(Math.random()-0.5)*18,y:by-10-Math.random()*8,vx:(Math.random()-0.5)*50,vy:-10-Math.random()*25,t:0,life:0.45,col:Math.random()<0.5?'#d9b36a':'#b8923f',g:90,s:2});
